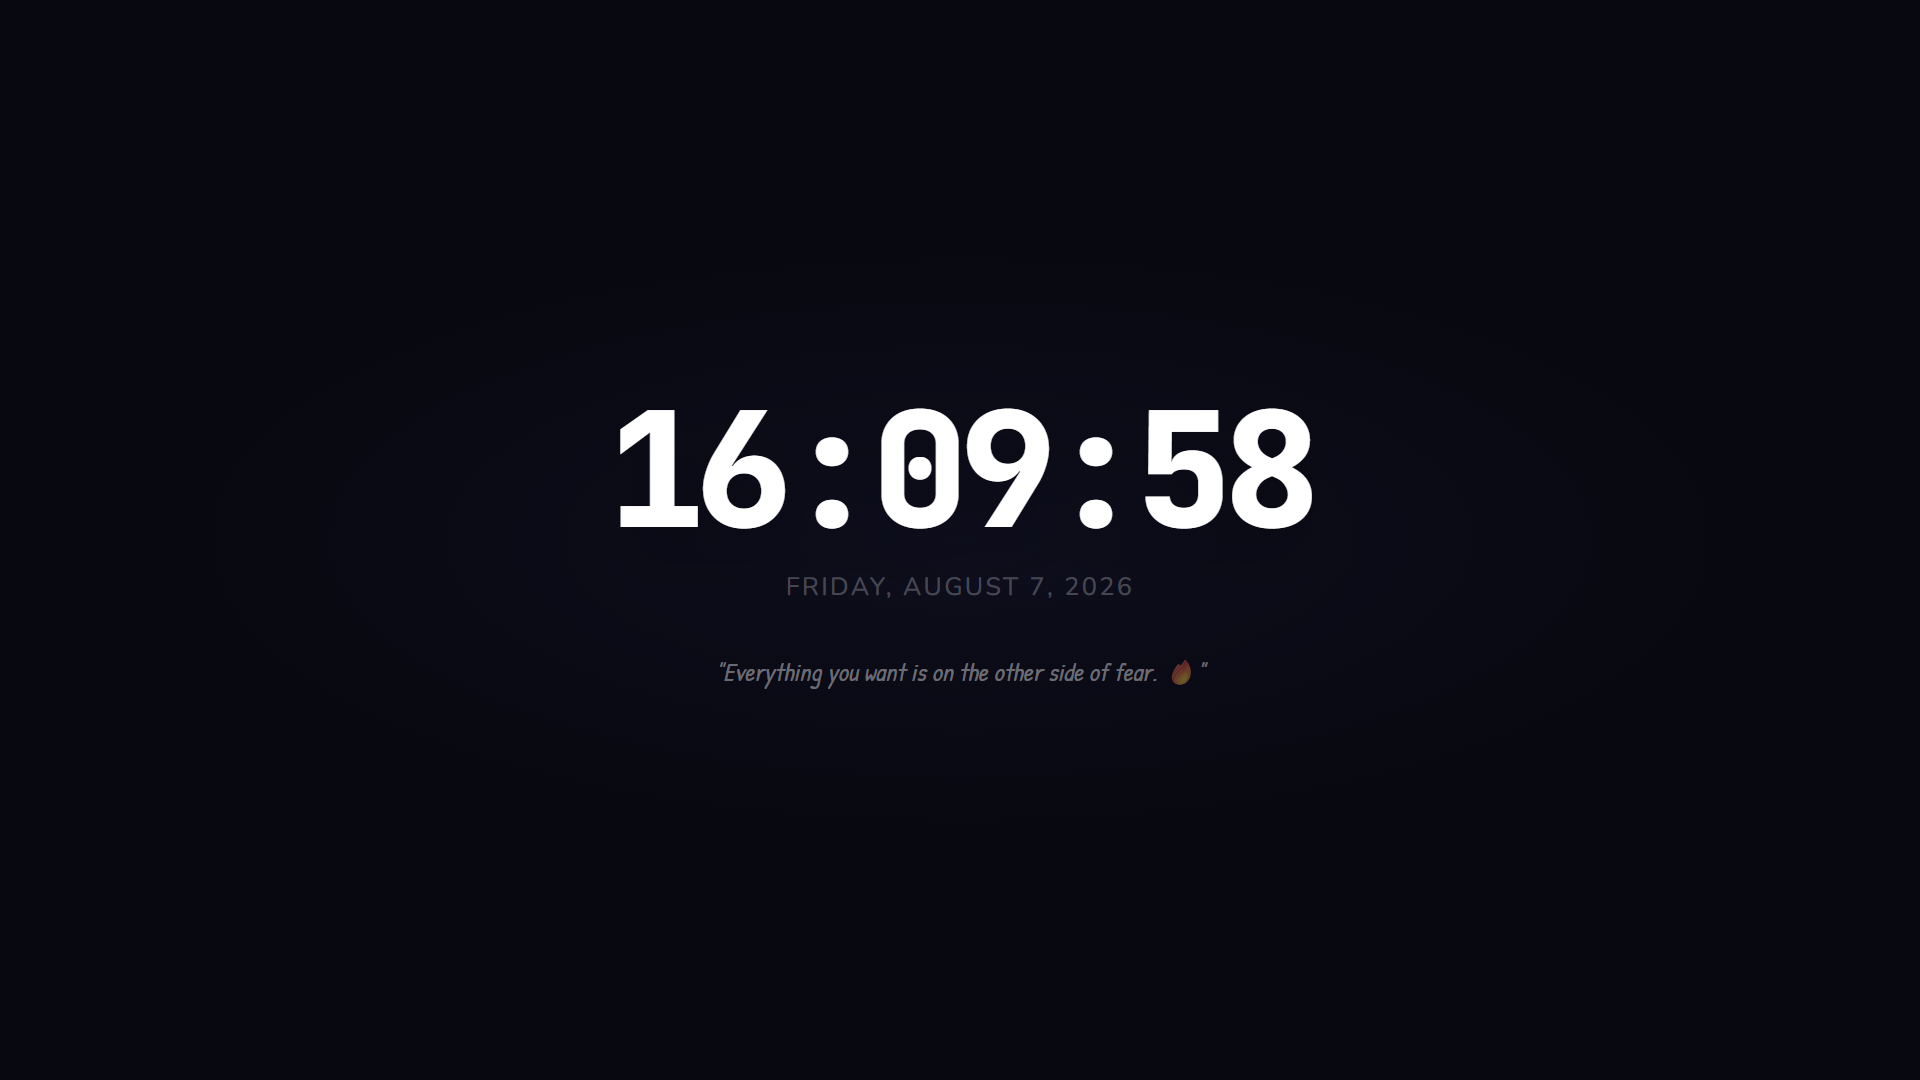
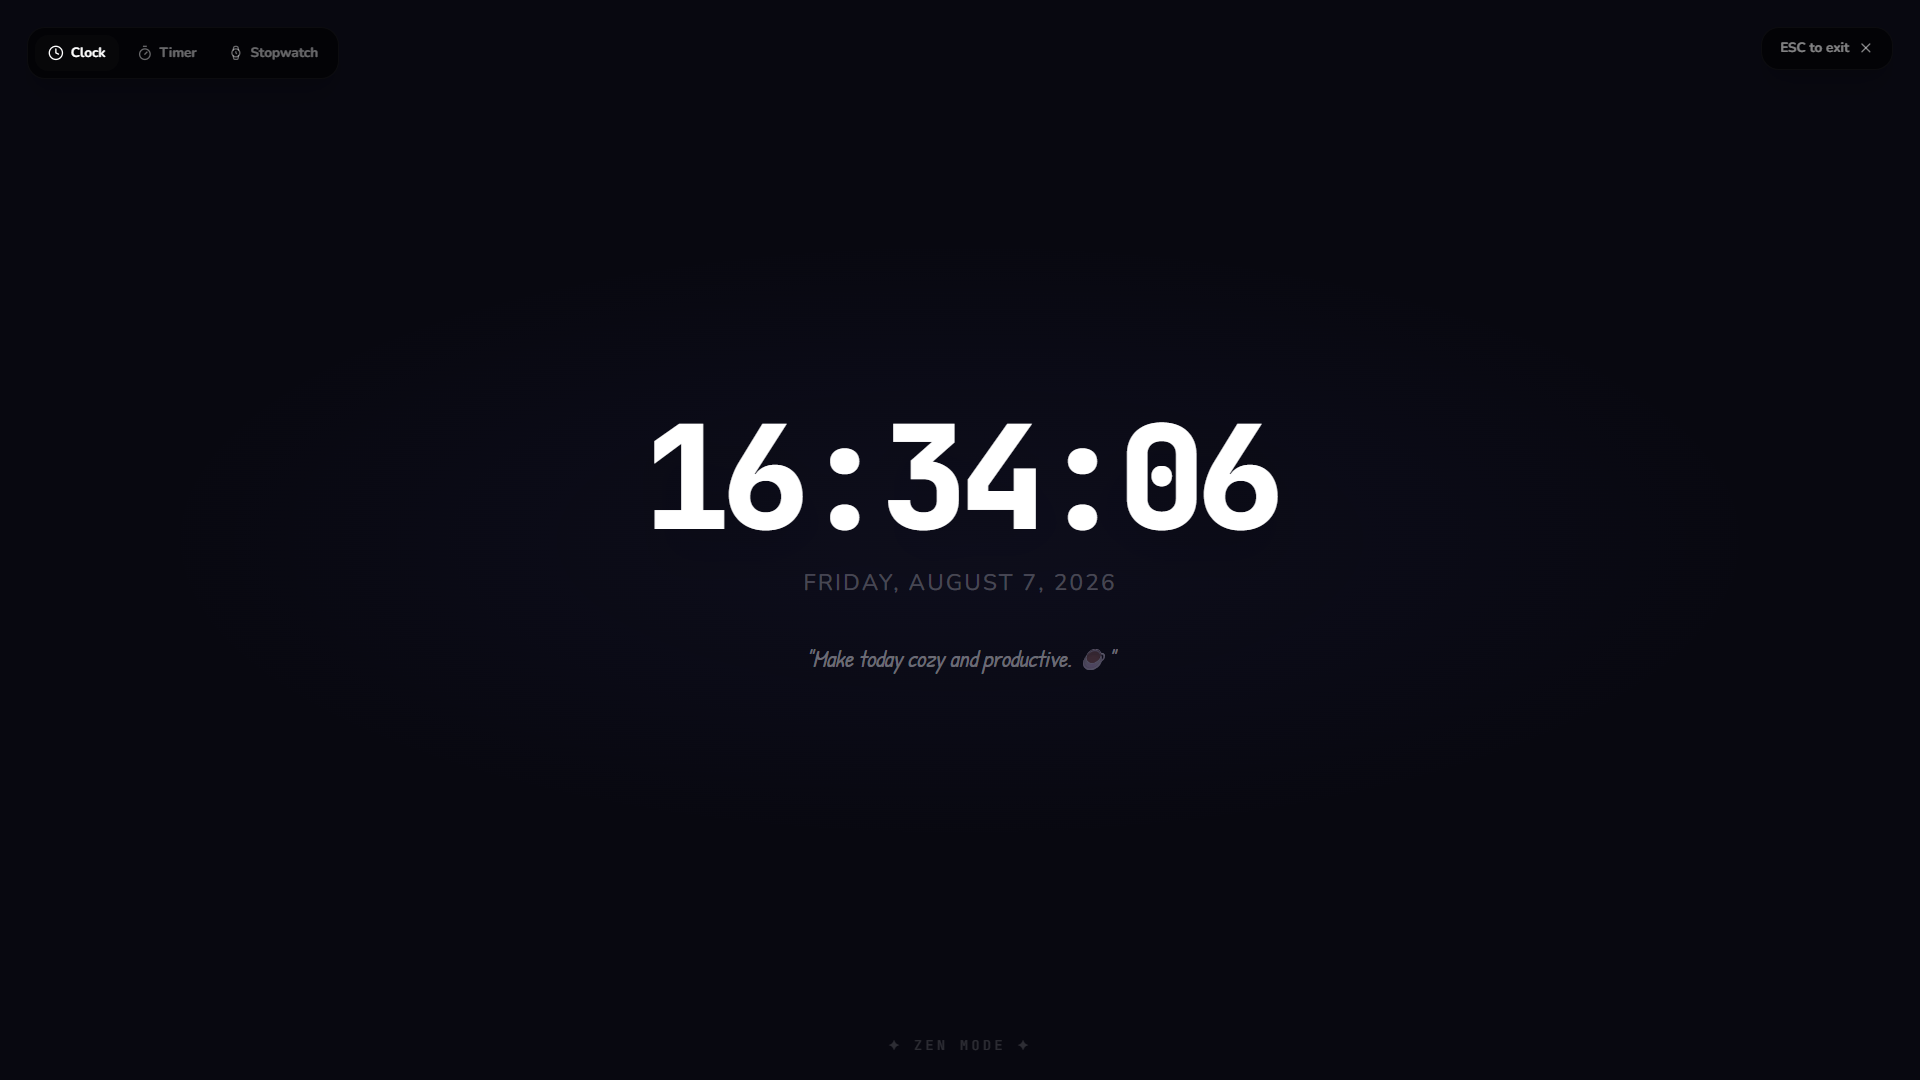
added screenshots

diff --git a/README.md b/README.md
@@ -20,7 +20,8 @@ Most productivity apps are noisy — they demand logins, send push notifications
 
 ## Key Features
 
-### 🏠 Dashboard (Home)
+### 🏠 Dashboard (Home) 
+![Dashboard](docs/dashboard.png)
 - **Animated Flip Clock** — real-time, minute-level digit flip animations with configurable 12h/24h format and optional seconds display
 - **Time-aware greeting** — Good Morning/Afternoon/Evening/Night with emoji based on local time
 - **Rotating motivational quotes** — 17 curated quotes cycling on each session
@@ -30,6 +31,7 @@ Most productivity apps are noisy — they demand logins, send push notifications
 - **Zen Mode launcher** — one-click entry into distraction-free fullscreen
 
 ### 🧘 Zen Mode
+![Zen Mode](docs/zen_mode.png)
 - Full-screen black overlay with three sub-modes: **Clock**, **Timer**, and **Stopwatch**
 - Controls auto-hide after 2 seconds of inactivity; reappear on any mouse movement
 - **Screen Wake Lock API** — prevents the display from sleeping for the entire Zen session; reacquires lock automatically on tab visibility restore
@@ -53,6 +55,7 @@ Most productivity apps are noisy — they demand logins, send push notifications
 - `Ctrl + T` keyboard shortcut to jump to Tasks from any view
 
 ### 📅 Calendar
+![Calendar](docs/calendar.png)
 - Full monthly calendar grid view
 - Add, view, and delete events on any date via the **Event Modal**
 - Event dots rendered on calendar day cells; clickable to open events for that day
@@ -83,6 +86,7 @@ Most productivity apps are noisy — they demand logins, send push notifications
 - Full data export/import includes saved cities
 
 ### 🎨 Themes
+![Theme](docs/theme.png)
 - **14 built-in themes**: Pure Black, Midnight, Tokyo Night, Forest, Ocean, Warm Coffee, Paper White, Warm Latte, Terracotta Dream, Sage Green, Dusky Rose, Golden Hour, Cool Gray, Deep Navy
 - All colors applied via CSS custom properties (`--color-bg`, `--color-surface`, `--color-accent`, etc.) — every component inherits the active theme automatically
 - **Custom wallpaper upload** — PNG/JPG/WebP up to 5 MB; stored as base64
@@ -99,18 +103,6 @@ Most productivity apps are noisy — they demand logins, send push notifications
 
 ---
 
-## Screenshots
-
-| View | Description |
-|---|---|
-| `docs\dashboard.png` | Flip clock, greeting, weather widget, and timer/stopwatch buttons |
-| `docs\zen_mode.png` | Full-screen clock/timer mode with ambient glow and auto-hiding controls |
-| `notes.png` | Sticky note card grid with the TipTap rich-text editor modal open |
-| `weather.png` | Full weather dashboard with city cards showing local times |
-| `docs\theme.png` | Theme selector grid and wallpaper upload panel |
-| `docs\calendar.png` | Monthly calendar with event dots and the Event Modal |
-
----
 
 ## Technology Stack
 
